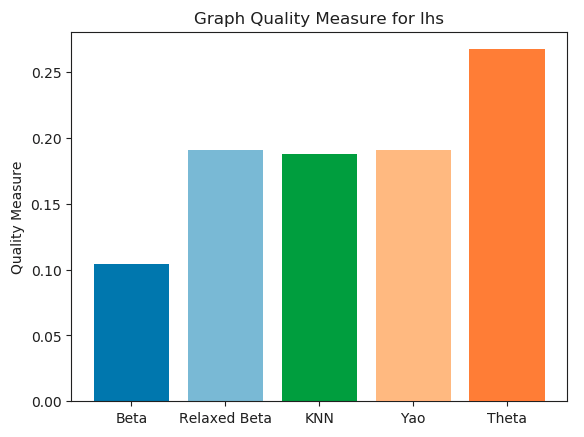
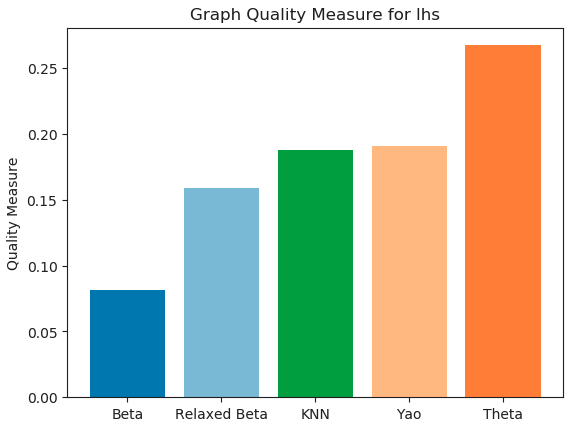
Updating data for the quality measures and adding example graphs.

Changed region(s): [[0.0, 0.0, 0.9931, 0.9977]]

diff --git a/thesis/chap7.tex b/thesis/chap7.tex
@@ -791,9 +791,11 @@ In Figure~\ref{fig:graph_quality}, we attempt to directly compare the optimal gr
 %
 We find that under the most generic setting of our composite measure, the strict $\beta$-skeleton performs best on average and the $\Theta$ graph is consistently the worst performing.
 %
-The exception to this is on the annulus dataset where there is an empty void in the center of the dataset that graphs are penalized for crossing as the $\alpha$-shape carves out this void.
+Examples of each distribution with their alpha shapes are shown with the optimal graphs from each category overlaid on top in Figures~\ref{fig:bs_quality}-~\ref{fig:theta_quality}.
 %
-It is possible that with few enough cones and the appropriate set of pseudo-random cone axes, we can better mitigate the existence of crossing edges as opposed to the $\beta$-skeletons which are more likely to have at edges crossing the spanning the void even in an otherwise, well-shaped graph.
+From these, we can see that when the topology is not simply connected, the relaxed $\beta$-skeleton is unable to recover the shape well.
+%
+This indicates that when operating on non-simply connected domains, the difference between the strict and relaxed $\beta$-skeleton is indeed significant.
 
 \begin{figure}[htbp]
     \centering
@@ -819,6 +821,40 @@ It is possible that with few enough cones and the appropriate set of pseudo-rand
     %
     Bottom row: a mixture of three distinct normal distributions with low probability of overlap, and a mixture with the same centers but with significant overlap.}
     \label{fig:graph_quality}
+\end{figure}
+
+\begin{figure}[htbp]
+    \centering
+    \includegraphics[width=\linewidth]{figs/chap7/bs_quality.png}
+    \caption{Examples of the best performing strict $\beta$-skeleton are shown for each distribution under consideration.}
+    \label{fig:bs_quality}
+\end{figure}
+
+\begin{figure}[htbp]
+    \centering
+    \includegraphics[width=\linewidth]{figs/chap7/rbs_quality.png}
+    \caption{Examples of the best performing relaxed $\beta$-skeleton are shown for each distribution under consideration.}
+    \label{fig:rbs_quality}
+\end{figure}
+
+\begin{figure}[htbp]
+    \centering
+    \includegraphics[width=\linewidth]{figs/chap7/k_quality.png}
+    \caption{Examples of the best performing $k$-nearest neighbor graphs are shown for each distribution under consideration.}
+    \label{fig:k_quality}
+\end{figure}
+\begin{figure}[htbp]
+    \centering
+    \includegraphics[width=\linewidth]{figs/chap7/yao_quality.png}
+    \caption{Examples of the best performing Yao graphs are shown for each distribution under consideration.}
+    \label{fig:yao_quality}
+\end{figure}
+
+\begin{figure}[htbp]
+    \centering
+    \includegraphics[width=\linewidth]{figs/chap7/theta_quality.png}
+    \caption{Examples of the best performing $\Theta$-graph are shown for each distribution under consideration.}
+    \label{fig:theta_quality}
 \end{figure}
 
 \subsection{Topological Accuracy and Stability}
